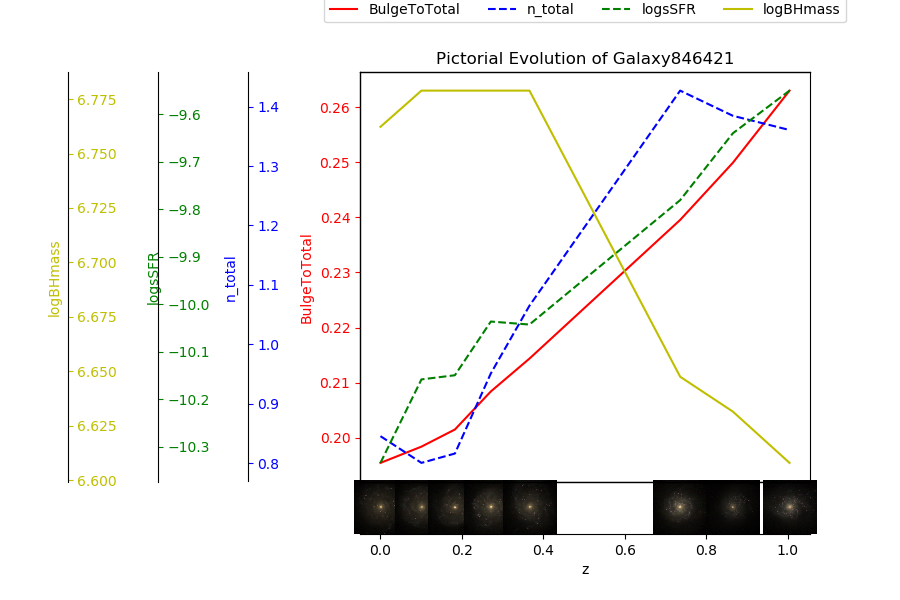
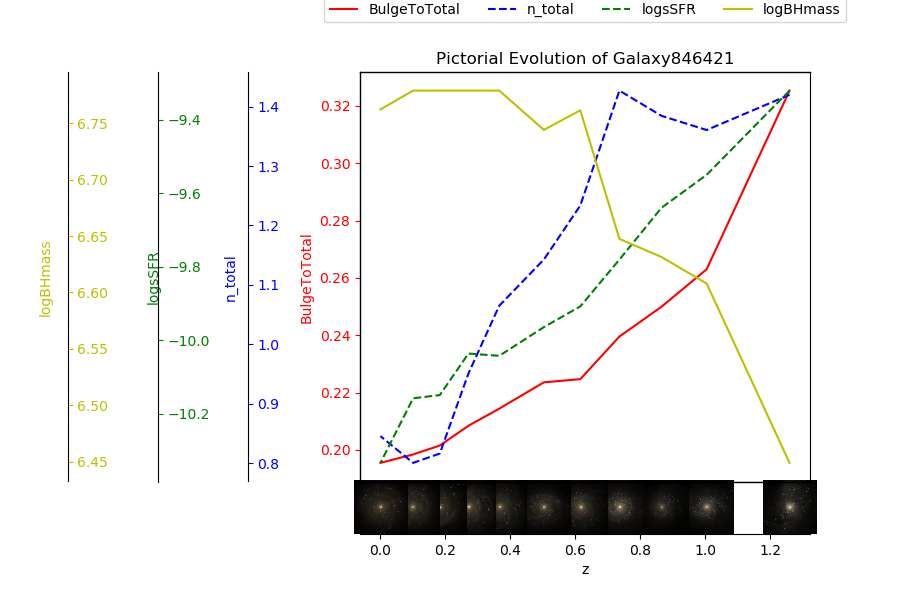
Individual galaxy evolution analysis for main branch

diff --git a/EvolutionofGalaxies.py b/EvolutionofGalaxies.py
@@ -15,8 +15,7 @@ from matplotlib import cm
 from mpl_toolkits.mplot3d import axes3d
 from scipy.interpolate import griddata 
 from matplotlib.offsetbox import OffsetImage, AnnotationBbox
-from matplotlib.cbook import get_sample_data
-import scipy
+from astropy.cosmology import Planck13
 import pylab
 
 
@@ -24,6 +23,18 @@ import pylab
 def logx(x):
     if x !=0:
         return np.log10(x)
+    else:
+        return 0
+
+def divide(x,y):
+    if y !=0:
+        return x/y
+    else:
+        return 0
+
+def invert(var):
+    if var != 0:
+        return(1/var)*10
     else:
         return 0
 
@@ -293,11 +304,59 @@ def removeoutlierscolumn(df, column_name, sigma):
     df=df[np.abs(df[column_name]-df[column_name].mean())<=(sigma*df[column_name].std())]
     return df
 
-def invert(var):
-    if var != 0:
-        return(1/var)*10
-    else:
-        return 0
+def getImage(path):
+    return OffsetImage(plt.imread('evolvinggalaxyimagebinmainbranchRecalL0025N0752/'+path), zoom=0.15)
+
+def cleanandtransformdata(df):
+    print(df.shape)
+    df.sort_values(['z','ProjGalaxyID'], ascending=[False,True], inplace=True)
+    df['lbt']=df.apply(lambda x: round(Planck13.lookback_time(x.z).value, 1), axis=1)
+    df['lookbacktime']=df.apply(lambda x: -(Planck13.lookback_time(x.z).value)*(1e9), axis=1)
+    df['dlbt']=df.groupby('ProjGalaxyID')['lookbacktime'].diff()
+    df['dSFR']=df.groupby('ProjGalaxyID')['SFR'].diff()
+    df['dBHmass']=df.groupby('ProjGalaxyID')['BHmass'].diff()
+    df['dSIM']=df.groupby('ProjGalaxyID')['StellarInitialMass'].diff()
+    df['dD2T']=df.groupby('ProjGalaxyID')['DiscToTotal'].diff()
+    df['dn_total']=df.groupby('ProjGalaxyID')['n_total'].diff()
+    df['dz']=df.groupby('ProjGalaxyID')['z'].diff()
+    df['dz']=df.apply(lambda x: -x.dz, axis=1)
+    df['dSFRdz']=df.apply(lambda x: (x.dSFR)/(x.dz), axis=1)
+    df['dBHmassdz']=df.apply(lambda x: (x.dBHmass)/(x.dz), axis=1)
+    df['dSIMdz']=df.apply(lambda x: (x.dSIM)/(x.dz), axis=1)
+    df['dn_totaldz']=df.apply(lambda x: (x.dn_total)/(x.dz), axis=1)
+    df['dD2Tdz']=df.apply(lambda x: (x.dD2T)/(x.dz), axis=1)
+    df['dSFRdt']=df.apply(lambda x: (x.dSFR)/(x.dlbt), axis=1)
+    df['dBHmassdt']=df.apply(lambda x: (x.dBHmass)/(x.dlbt), axis=1)
+    df['dSIMdt']=df.apply(lambda x: (x.dSIM)/(x.dlbt), axis=1)
+    df['dn_totaldt']=df.apply(lambda x: (x.dn_total)/(x.dlbt), axis=1)
+    df['dD2Tdt']=df.apply(lambda x: (x.dD2T)/(x.dlbt), axis=1)
+
+    #drop_numerical_outliers(df, 3)
+    #df=df=df.reset_index()
+    #print(df.shape)
+    
+    df['num']= df.groupby('ProjGalaxyID')['ProjGalaxyID'].transform('count')
+    print(df.shape)
+    #df=df[df.num>7]
+    #dftotal work
+    print(df.ProjGalaxyID.nunique())
+    df['BulgeToTotal']=df.apply(lambda x: (1-x.DiscToTotal), axis=1)
+    df['logBHmass']=df.apply(lambda x: logx(x.BHmass), axis=1)
+    df['logmass']=df.apply(lambda x: logx(x.Starmass), axis=1)
+    df['sSFR']=df.apply(lambda x: divide(x.SFR,x.Starmass), axis=1)
+    df['logsSFR']=df.apply(lambda x: logx(x.sSFR), axis=1)
+    df['dtototal']=df.apply(lambda x: (1-x.btdintensity), axis=1)
+    df['dtbradius']=df.apply(lambda x: invertbtd(x.btdradius), axis=1)
+    df['dtbintensity']=df.apply(lambda x: invertbtd(x.btdintensity), axis=1)
+    """
+    dftotal=df
+    df=df[df.n_total_error<100]
+    df['num_images']= df.groupby('ProjGalaxyID')['ProjGalaxyID'].transform('count')
+    print(df.shape)
+    df=df[df.n_total>0.05]
+    df=df.reset_index()
+    print(df.shape)
+    """
 
 def threeDplot(df, x,y,z, column_size, column_colour):
     df['BHmassbin']=pd.cut(df.logBHmass, 10)
@@ -450,6 +509,7 @@ def evolutionplot(df, param, param_size, param2):
 
 def specificgalaxyplot(df, galaxyid, param1, param2, param3, param4):
     df2=df[df.ProjGalaxyID==galaxyid]
+    df2=df2[df2.n_total>0]
 
     x = df2['z'].tolist()
     y_image=np.zeros(df2.z.nunique())
@@ -470,8 +530,6 @@ def specificgalaxyplot(df, galaxyid, param1, param2, param3, param4):
     ax4.spines['right'].set_position(('axes', -0.65))
     axes[-1].set_frame_on(True)
     axes[-1].patch.set_visible(False)
-
-
 
     ax1.plot(x, y1,  'r', label=param1)
     ax1.yaxis.label.set_color('red')
@@ -510,47 +568,70 @@ def specificgalaxyplot(df, galaxyid, param1, param2, param3, param4):
     plt.savefig('evolvinggalaxygraphbinmainbranch'+sim_name+'/PictorialEvolutionGalaxy'+str(galaxyid)+'.png')
     plt.show()
 
-def getImage(path):
-    return OffsetImage(plt.imread('evolvinggalaxyimagebinmainbranchRecalL0025N0752/'+path), zoom=0.15)
+def specificgalplotratesofvariabless(df, galaxyid):
+    df=df[df.ProjGalaxyID==galaxyid]
+    fig, (ax1,ax2,ax3) = plt.subplots(3,1, sharex=True, figsize=(8,6))
+    ax0=ax1.twiny()
+    ax0.set_xlabel('Lookback time (Gyr)')
+    ax0.set_xticks(df.lbt)
+    ax0.set_xlim(df.lbt.max(), df.lbt.min())
+    ax1.plot(df.z,df.SFR, 'r' ,label='SFR')
+    ax1.plot(df.z, df.dSIMdt,'purple', label='dSIMdt' )
+    ax1b=ax1.twinx()
+    ax1b.plot(df.z, df.dSFRdz, 'r--',label='dSFRdz')
+    ax1b.set_ylabel('$\dfrac{dSFR}{dt}$')
+    ax1.set_ylabel('$M_{\odot}yr^{-1}$')
+    ax2.plot(df.z,df.BHAccretionrate,'brown', label='BHAccretionRate')
+    ax2b=ax2.twinx()
+    ax2b.plot(df.z,df.dBHmassdt, 'y', label='dBHmassdt')
+    ax2b.set_ylabel('$\dfrac{dBHmass}{dt}$')
+    ax2.set_ylabel('$M_{\odot}yr^{-1}$')
+    ax3.plot(df.z,df.DiscToTotal, 'b', label='DiscToTotal')
+    ax3.plot(df.z, df.dD2Tdz, 'b--',label='dD2Tdz')
+    ax3.plot(df.z,df.n_total, 'g', label='n_total' )
+    ax3b=ax3.twinx()
+    ax3b.plot(df.z,df.dn_totaldz,'g--', label='dn_totaldz')
+    ax3b.set_ylabel('$\dfrac{dn_total}{dt}$')
+    ax3.set_xlabel('z')
+    fig.legend(bbox_to_anchor=(1.01,0.5),loc='center right')
+    ax0.set_title('Rate of Change of Variables for galaxy '+str(galaxyid))
+    #plt.tight_layout()
+    plt.subplots_adjust(hspace=0, right=0.6)
+    plt.savefig('evolvinggalaxygraphbinmainbranch'+sim_name+'/RatesofVariables'+str(galaxyid)+'.png')
+    plt.show()
+
+def specificgalplotmasses(df, galaxyid):
+    df=df[df.ProjGalaxyID==galaxyid]
+    plt.plot(df.z,df.Starmass, label='Starmass')
+    plt.plot(df.z, df.BHmass, label='BHmass')
+    plt.plot(df.z, df.Gasmass, label='Gasmass')
+    plt.plot(df.z, df.StellarInitialMass, label='StellarInitialMass')
+    plt.xlabel('z')
+    plt.yscale('log')
+    plt.ylabel('$M_{\odot}$')
+    plt.legend()
+    plt.title('Mass Comparisons for galaxy '+str(galaxyid))
+    plt.savefig('evolvinggalaxygraphbinmainbranch'+sim_name+'/Massesof'+str(galaxyid)+'.png')
+    plt.show()
 
 def plotbulgetodisc(df, sim_name):
-    print(df.shape)
-    #drop_numerical_outliers(df, 3)
-    #df=df=df.reset_index()
-    #print(df.shape)
-    dftotal=df
-    df=df[df.n_total_error<10]
-    print(df.shape)
-    df=df[df.n_total>0.05]
-    df=df.reset_index()
-    print(df.shape)
-    
-    df['num']= df.groupby('ProjGalaxyID')['ProjGalaxyID'].transform('count')
-    #df['num']=df.ProjGalaxyID.value_counts()
-    print(df.shape)
-    #df=df[df.num>7]
-    #dftotal work
-    print(df.ProjGalaxyID.nunique())
-    df['BulgeToTotal']=df.apply(lambda x: (1-x.DiscToTotal), axis=1)
-    df['logBHmass']=df.apply(lambda x: np.log10(x.BHmass), axis=1)
-    df['logmass']=df.apply(lambda x: np.log10(x.Starmass), axis=1)
-    df['sSFR']=df.apply(lambda x: (x.SFR/x.Starmass), axis=1)
-    df['logsSFR']=df.apply(lambda x: logx(x.sSFR), axis=1)
-    df['dtototal']=df.apply(lambda x: (1-x.btdintensity), axis=1)
-    specificgalaxyplot(df, 846421, 'BulgeToTotal', 'n_total', 'logsSFR', 'logBHmass')
-
-    #evolutionplot(df, 'BulgeToTotal', 'logmass', 'logBHmass')
-
-
-
+    cleanandtransformdata(df)
+    #print(df[['z','dz','lookbacktime','dlbt','StellarInitialMass', 'dSIM', 'dSIMdz', 'dSIMdt', 'SFR']])
+    galaxyid=646493
+    df=df[df.ProjGalaxyID==galaxyid]
+    plt.plot(df.z, df.BulgeToTotal)
+    plt.plot(df.z, df.SFR)
+    plt.show()
     exit()
+    #specificgalplotmasses(df, galaxyid)
+    specificgalplotratesofvariabless(df, galaxyid)
+    #specificgalaxyplot(df, galaxyid, 'BulgeToTotal', 'n_total', 'logsSFR', 'logBHmass')
+    exit()
+    evolutionplot(df, 'BulgeToTotal', 'logmass', 'logBHmass')
     #df work
-
+    
     df=df[df.sSFR>0]
     print(df.shape)
-
-
-    print(df.ProjGalaxyID.nunique())
 
     evolutionplot(df, 'Starmass', 'Starmass')
     threeDplot(df, 'z','DiscToTotal','logBHmass', 'Starmass', 'logsSFR')
@@ -560,17 +641,13 @@ def plotbulgetodisc(df, sim_name):
 
     stackedhistogram(df, 'n_total','n_disc','n_bulge','n_bulge_exp')
     #subplothistograms(df, 'n_total','n_disc','n_bulge','n_disca','n_bulgea','n_bulge_exp')
-
-    
     #colorbarplot(df, 'n_total', 'DiscToTotal', 'logmass', 'logsSFR', 'BHmass')
     threeDplot(df, 'dtototal','DiscToTotal','logBHmass', 'Starmass', 'logsSFR')
 
 
     exit()
     
-    df['dtbradius']=df.apply(lambda x: invertbtd(x.btdradius), axis=1)
-    df['dtbintensity']=df.apply(lambda x: invertbtd(x.btdintensity), axis=1)
-    df['ZBin']=pd.qcut(df.Z, 6)
+    
     
    
     stackedhistogram(df, 'n_total','n_disc','n_bulge','n_bulge_exp')
